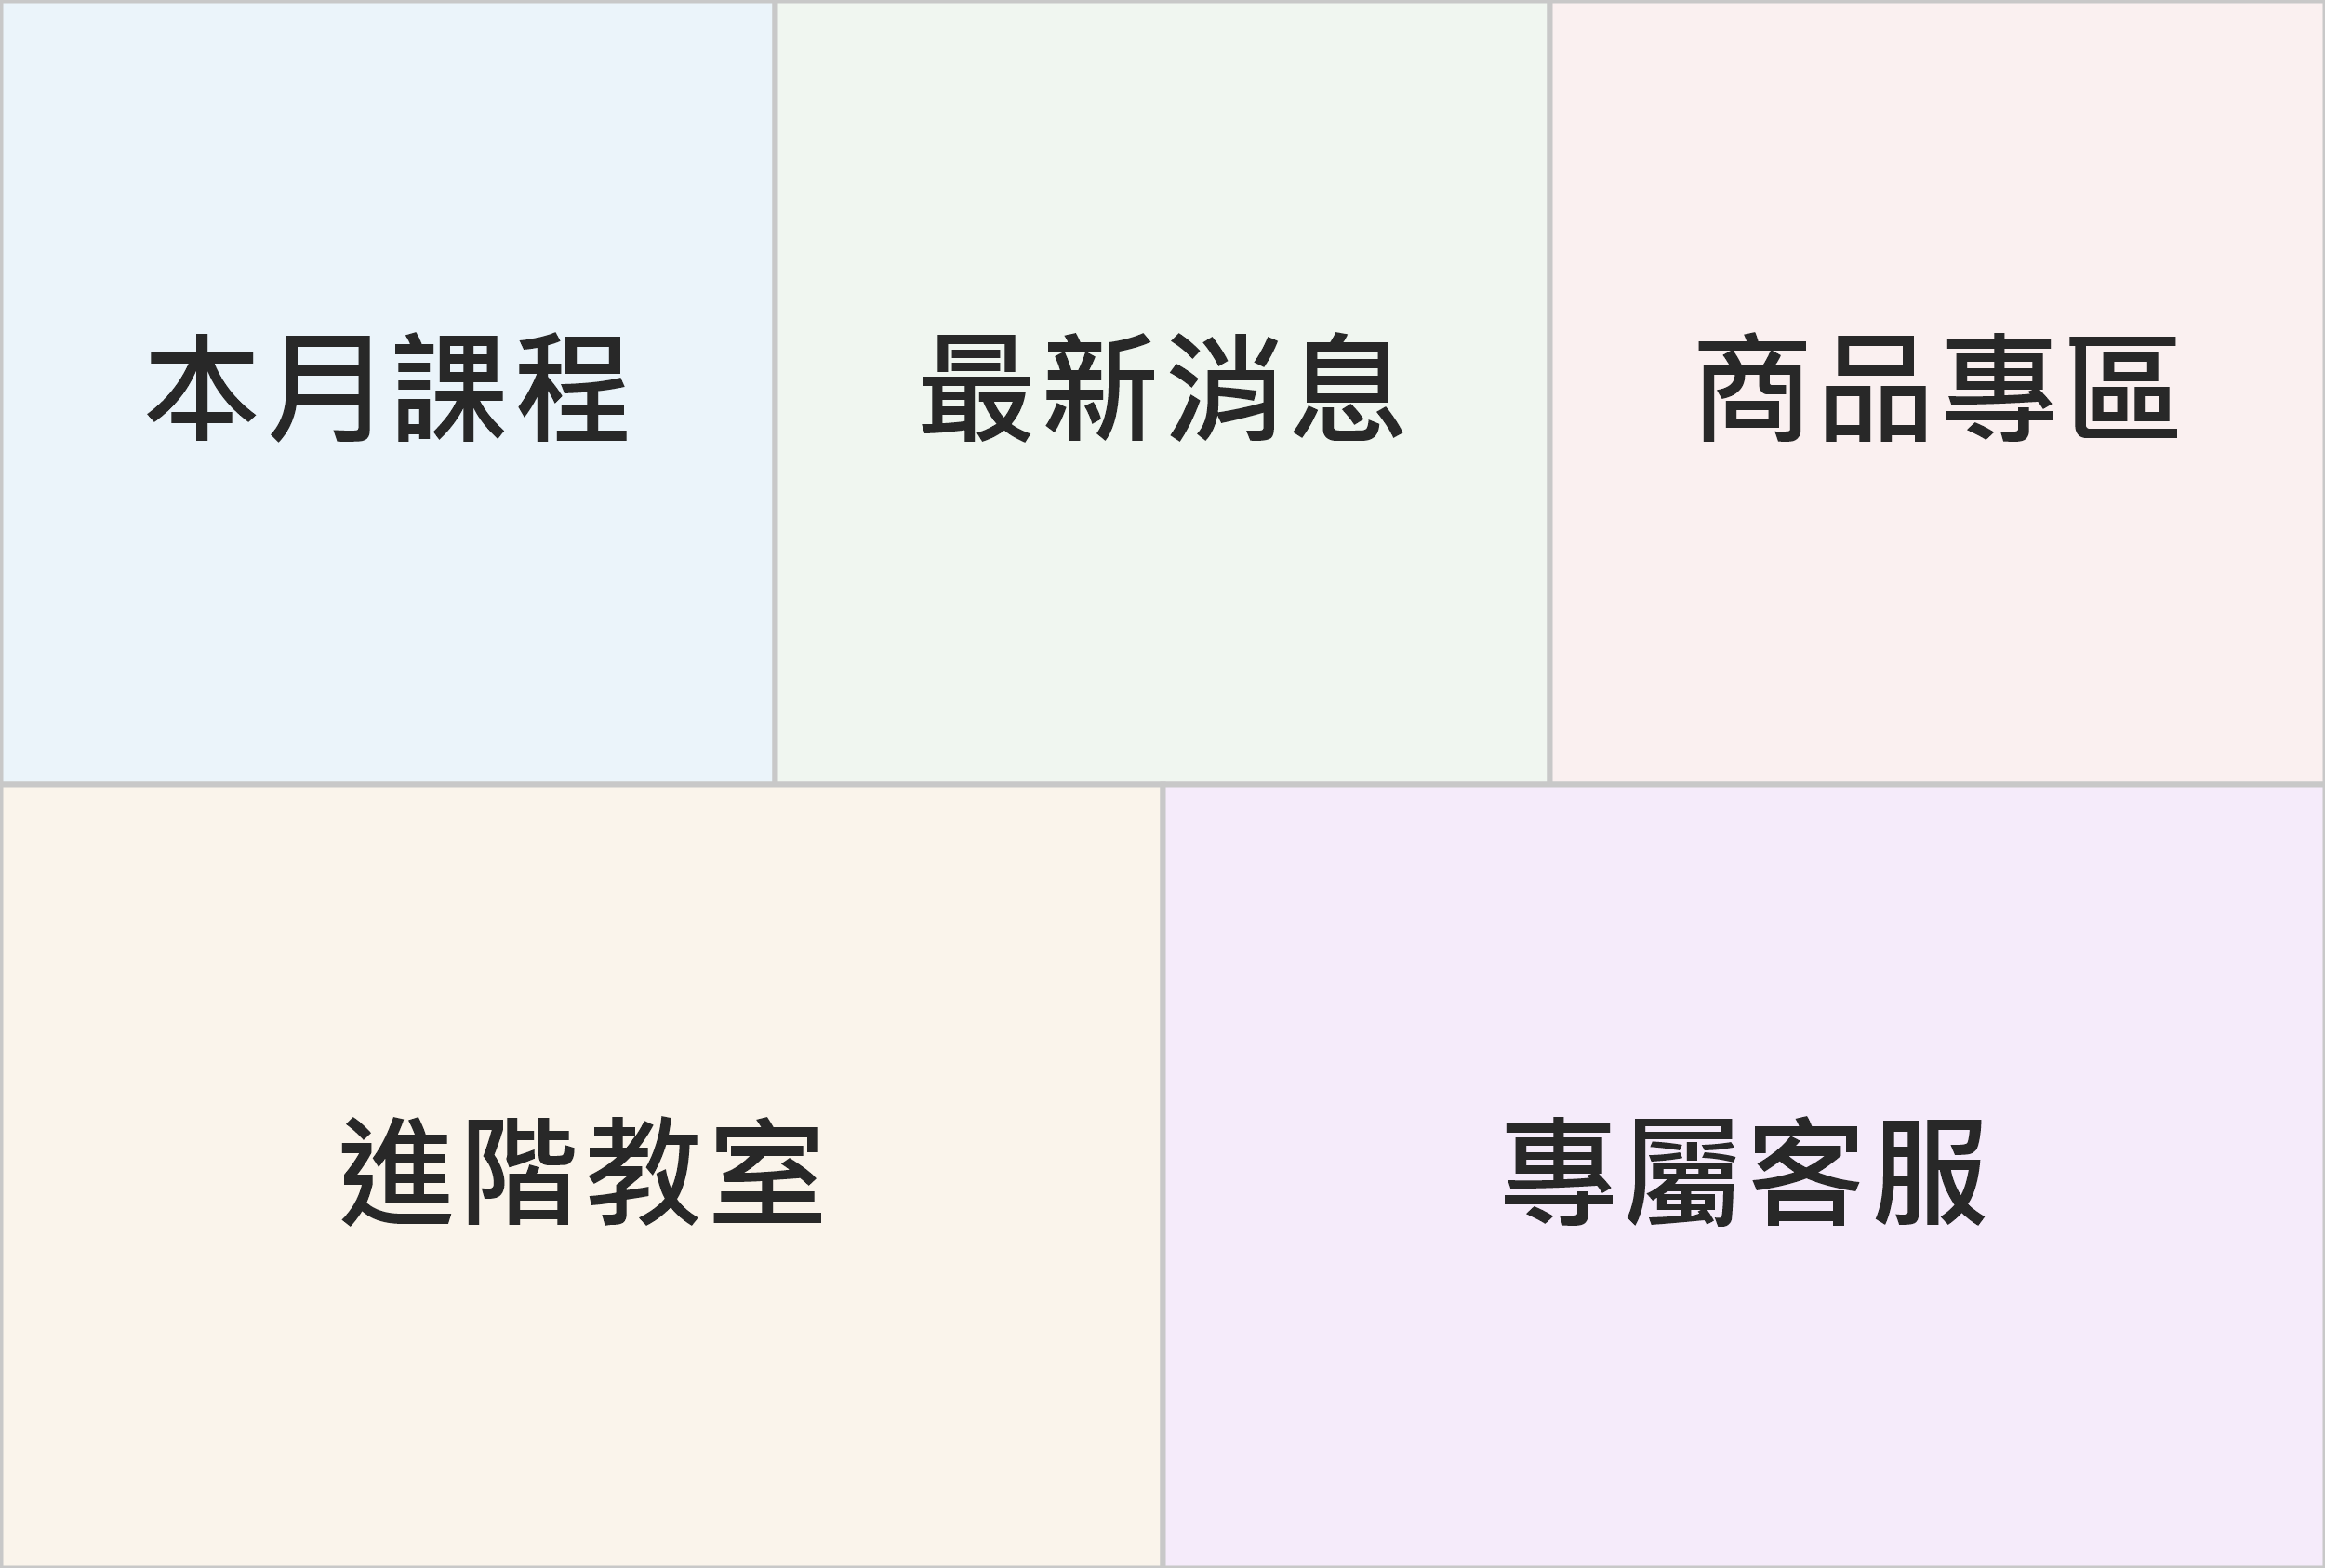
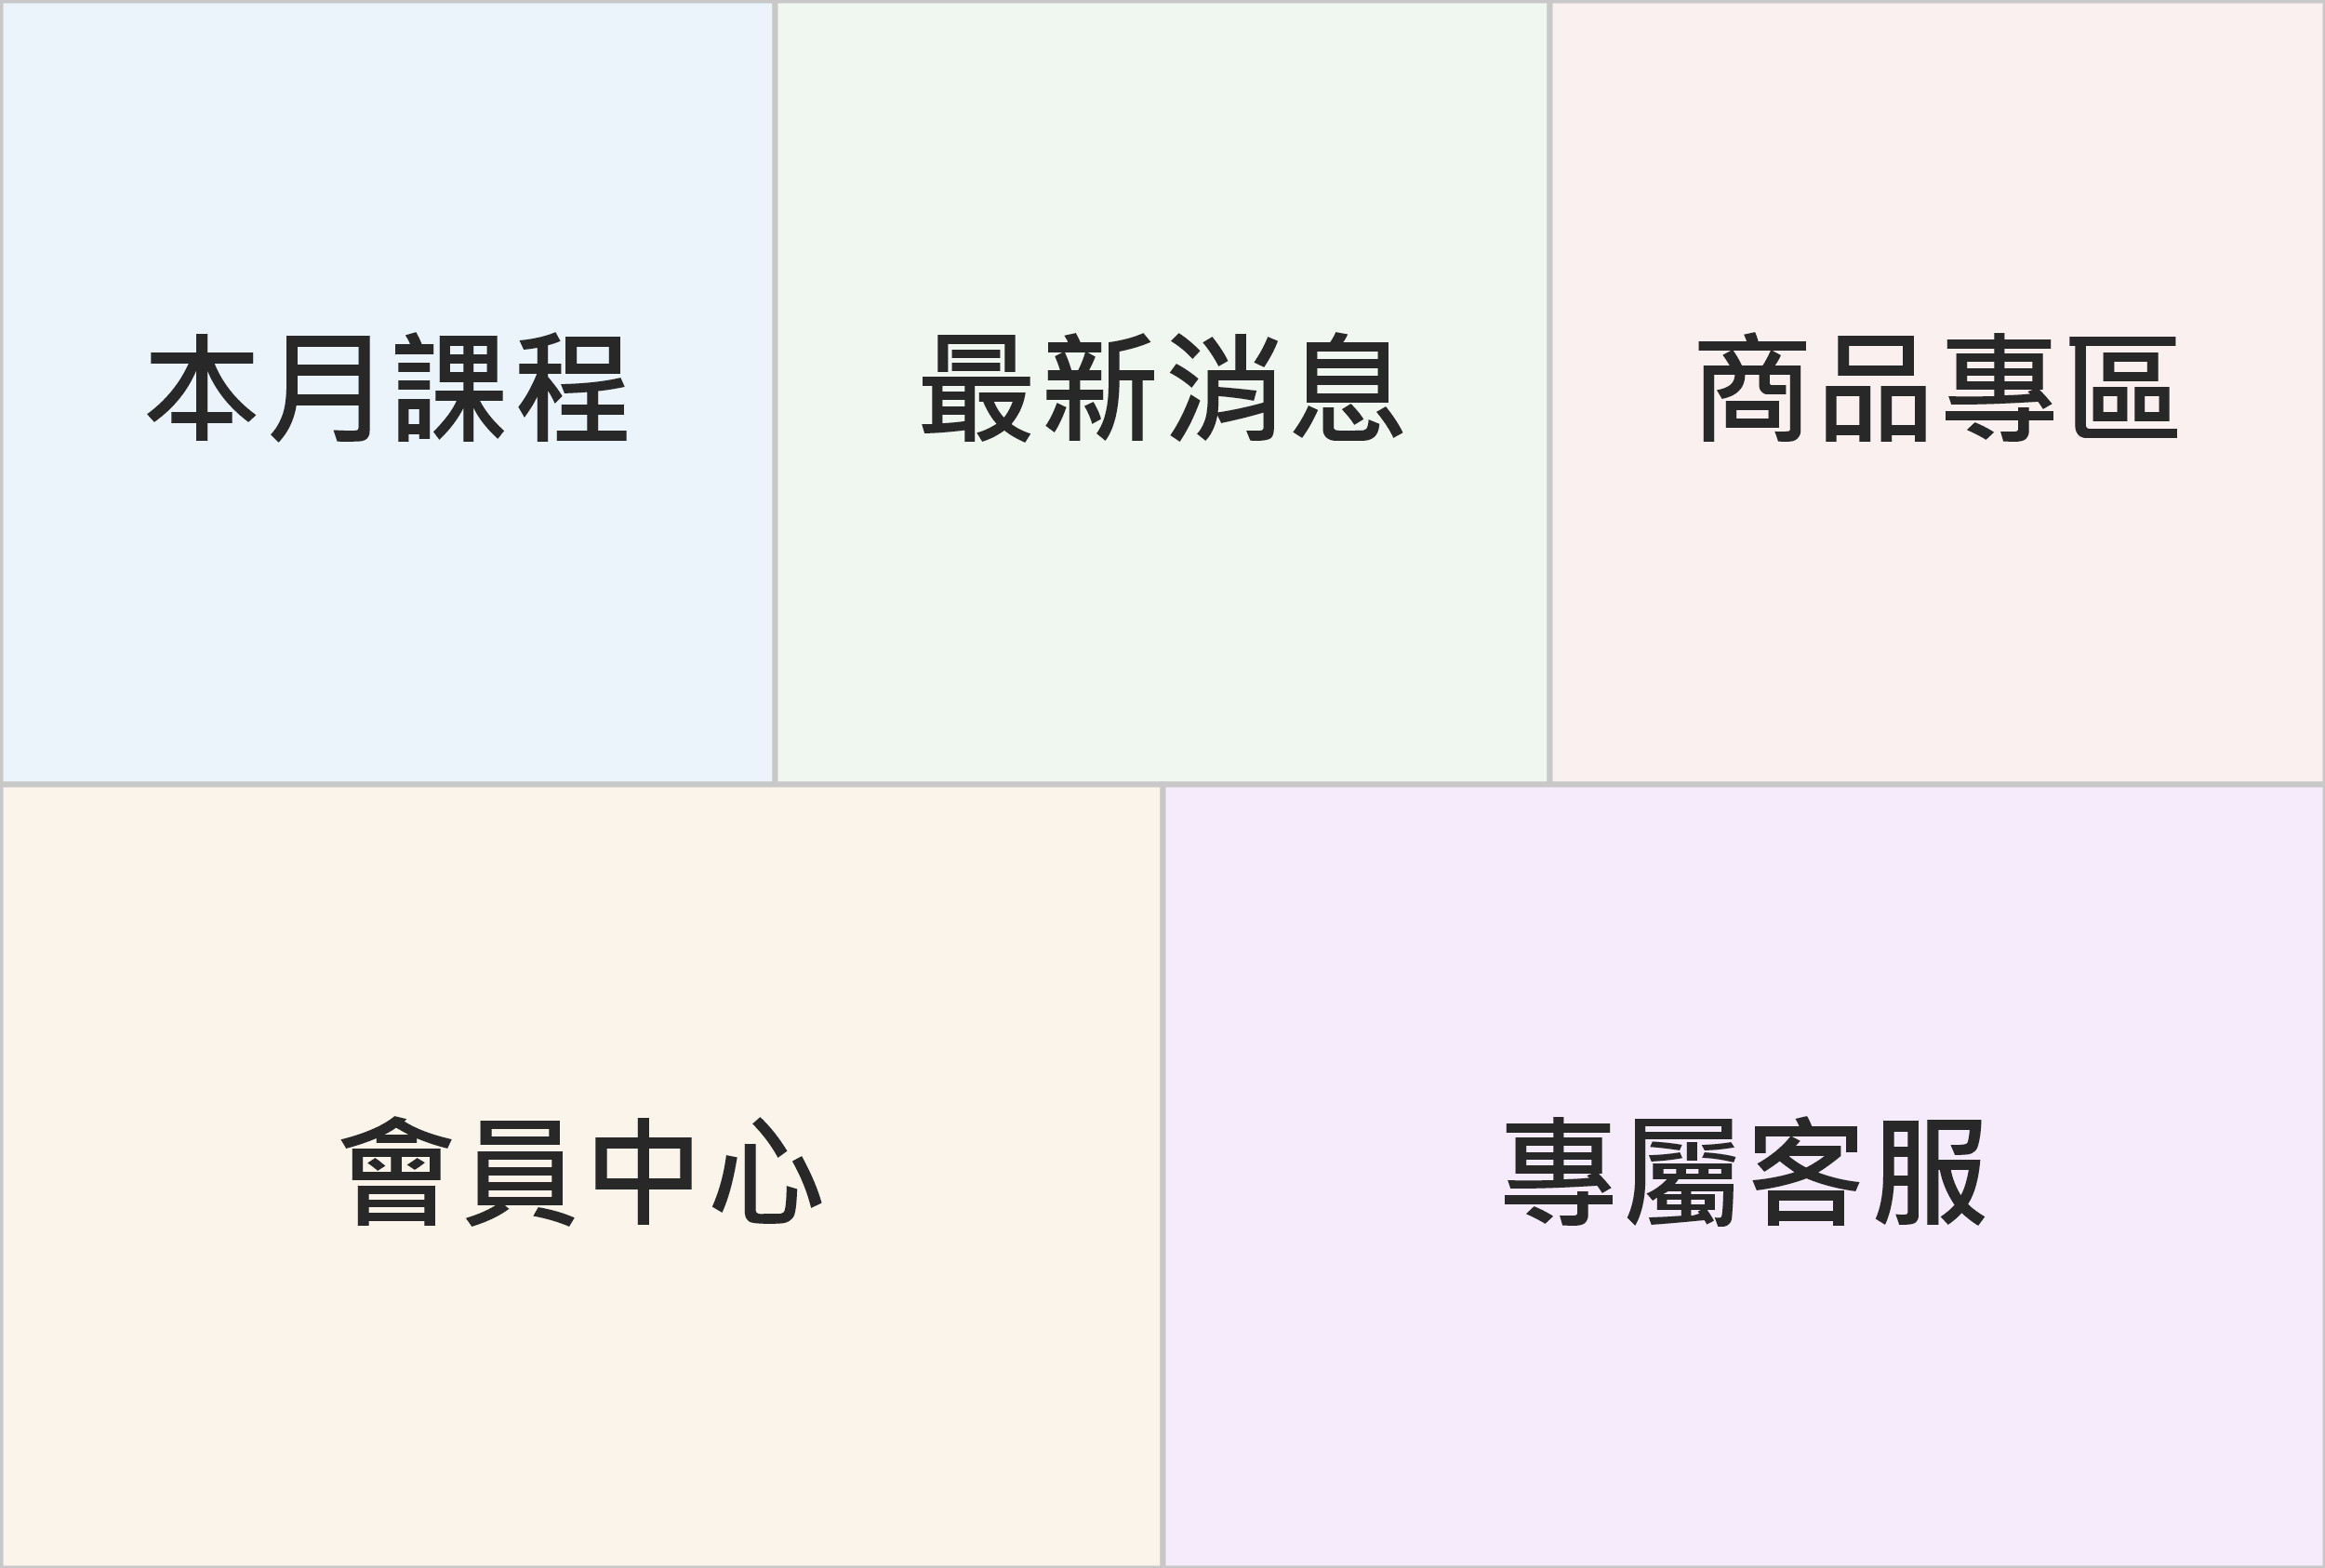
refactor: Rich Menu 第 4 格改「會員中心」(LIFF URI)
對齊提案 v5 第 208 行(進階教室暫綁於專屬客服 sub-option):
- 第 4 格 postback 「進階教室」→ URI action 「會員中心」(LIFF 短連結)
- 移除 advanced postback handler
- contact reply 內加進階教室 sub-mention(「輸入『進階』」)
- 重生 PNG 下排左標題改「會員中心」

Changed region(s): [[0.1248, 0.7094, 0.3744, 0.8019]]

diff --git a/lib/line.ts b/lib/line.ts
@@ -74,14 +74,6 @@ function getPostbackReply(data: string): string {
         '(內容更新功能建置中)',
       ].join('\n');
 
-    case 'advanced':
-      return [
-        '🎓 進階教室',
-        '',
-        '組織內部進階培訓資訊與報名入口。',
-        '初期請點【💬 專屬客服】詢問,後續會改為關鍵字觸發。',
-      ].join('\n');
-
     case 'contact':
       return [
         '💬 專屬客服',
@@ -90,6 +82,7 @@ function getPostbackReply(data: string): string {
         '• 訂單 / 出貨進度 → 請提供訂單編號或下單姓名',
         '• 課程報名 / 變更 → 請提供姓名 + 課程名稱',
         '• 商品諮詢 → 直接描述需求,我們幫你推薦',
+        '• 進階教室 / 組織內部培訓 → 請輸入「進階」我們會跟你聯繫',
         '',
         '— 客服時間 —',
         '週一至週五 10:00 – 18:00',

diff --git a/scripts/setup-rich-menu.ts b/scripts/setup-rich-menu.ts
@@ -74,7 +74,8 @@ async function main() {
       // 下排
       {
         bounds: { x: 0, y: H, width: BOT_W, height: H },
-        action: { type: 'postback' as const, data: 'action=advanced', displayText: '🎓 進階教室' },
+        // 會員中心走 LIFF webview(URI 開 LIFF 短連結)
+        action: { type: 'uri' as const, uri: 'https://liff.line.me/2010125926-mRl3l3lO', label: '👤 會員中心' },
       },
       {
         bounds: { x: BOT_W, y: H, width: BOT_W, height: H },